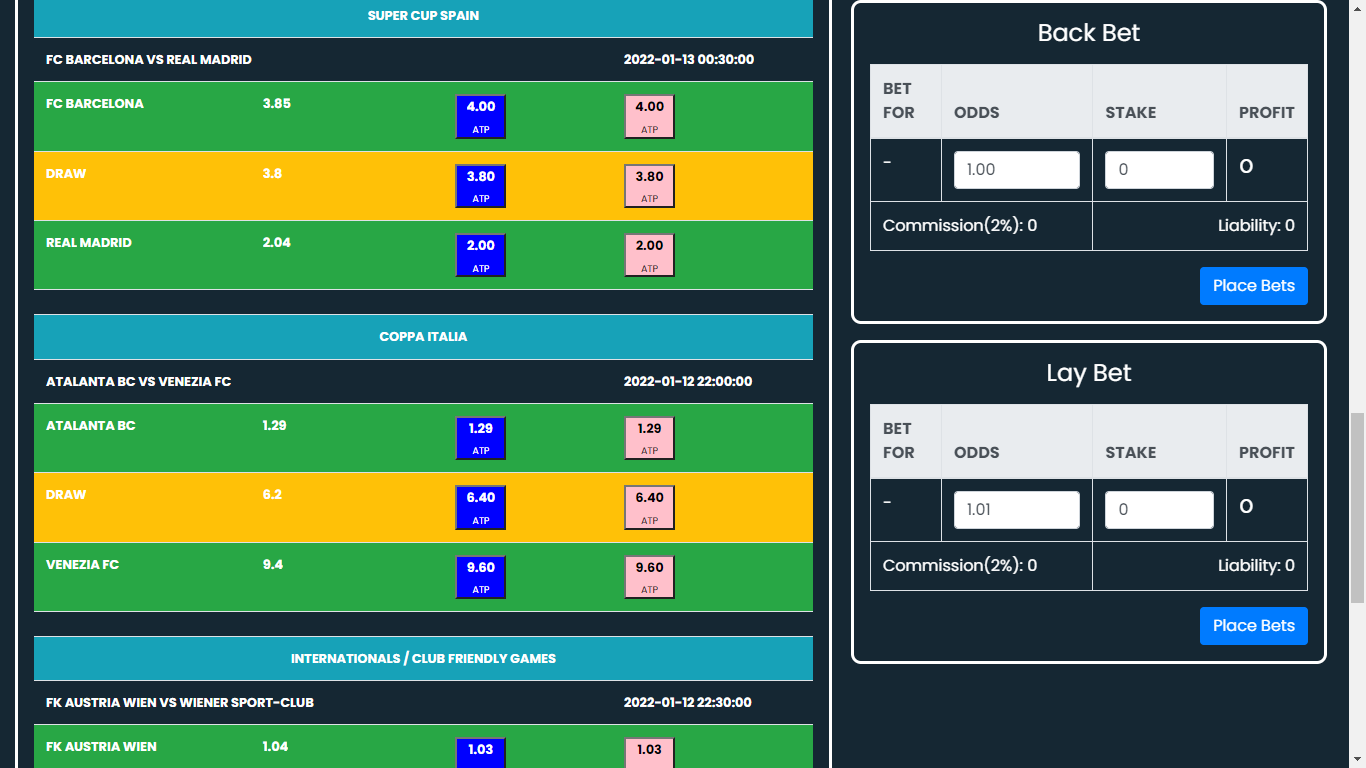
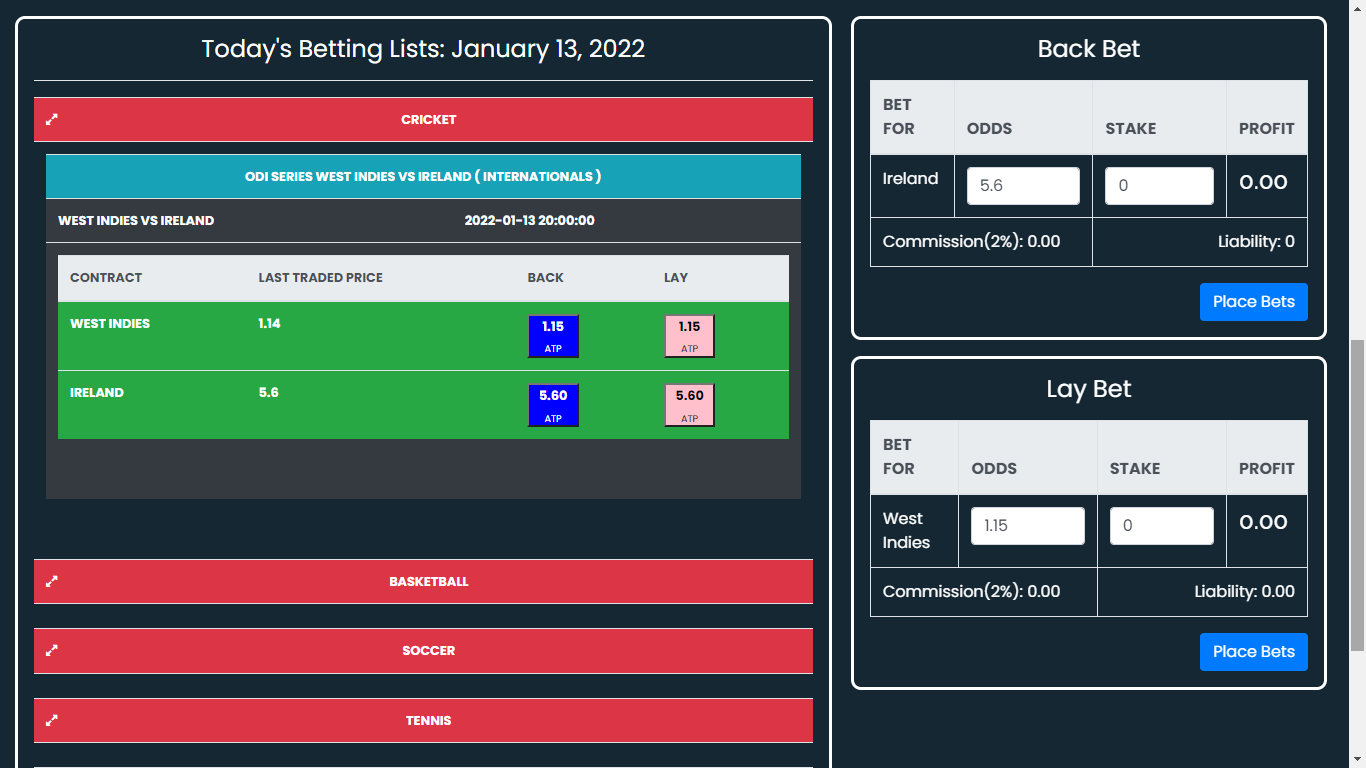
V 1.3
Fetching real-time odds for Cricket, Football, Basketball, Tennis and Ice Hockey
Exception Error fixed

diff --git a/templates/index.html b/templates/index.html
@@ -24,7 +24,9 @@
     <link href="{{ url_for('static', filename='css/font-awesome.min.css') }}" rel="stylesheet">
     <!-- //Custom Theme files -->
     <!-- online-fonts -->
+    <link rel="stylesheet" href="https://cdnjs.cloudflare.com/ajax/libs/font-awesome/4.7.0/css/font-awesome.min.css">
     <link href="//fonts.googleapis.com/css?family=Raleway:100,100i,200,200i,300,300i,400,400i,500,500i,600,600i,700,700i,800" rel="stylesheet">
+    <script src="https://ajax.googleapis.com/ajax/libs/jquery/3.5.1/jquery.min.js"></script>
     <!-- //online-fonts -->
     <style type="text/css">
     	@import url('https://fonts.googleapis.com/css2?family=Poppins:wght@300;400;500;700;900&display=swap');
@@ -88,7 +90,9 @@ th{
 .lfoot {
   text-align: right;
 }
-
+tr{
+     border-color: transparent;
+}
 </style>
 
 </head>
@@ -121,139 +125,73 @@ th{
                 <h4>
                   <span>Today's Betting Lists: {{ today }}</span>
                 </h4>
+                <hr style="background-color: white;">
               </div>
               <!-- widget content -->
               <table class="table small mb-5">
-                <thead class="thead-light">
-                  <tr>
-                    <th scope="col">CONTRACT</th>
-                    <th scope="col">Last Traded Price</th>
-                    <th scope="col">BACK</th>
-                    <th scope="col">LAY</th>
-                  </tr>
-                </thead>
                  <tbody>
-<!--                     <tr class="bg-secondarytext-white">
-                        <th>Man Utd Vs Aston Villa</th>
-                  </tr>
-                  <tr class="bg-success text-white">
-                    <th>Man Utd</th>
-                    <td><b>56.82% </b><br>1.76</td>
-                    <td>
-                        <button class="mbtn" id="mufvdft" onclick="checkbtn(this)">1.77 <sub>ATP</sub></button><input type="hidden" id="mufvdftv" value="1.77"><input type="hidden" id="mufvdfttm" value="Man Utd"><input type="hidden" id="mufvdftmid" value="muvsav011122"><input type="hidden" id="mufvdftst" value="0">
+    {% if allsports %}
+     {% for sport in allsports %}         
 
-                        {% if users %}
-                        {% for user in users %}
-                            {% if user.matchid == 'muvsav011122' and user.betwith == 0 and user.blcheck == 1 and user.team =='Man Utd' %}
-                                <button class="mbtn" id="{{ user.matchid }}{{ user.id  }}" onclick="checkbtn(this)">{{ user.odds }} <sub>{{ user.stake }}</sub></button><input type="hidden" id="{{ user.matchid }}{{ user.id  }}v" value="{{ user.odds }}"><input type="hidden" id="{{ user.matchid }}{{ user.id  }}tm" value="{{ user.team }}"><input type="hidden" id="{{ user.matchid }}{{ user.id  }}mid" value="{{ user.matchid }}"><input type="hidden" id="{{ user.matchid }}{{ user.id  }}st" value="{{ user.stake }}">  
-                            {% endif %}
-                        {% endfor %}
-                        {% endif %}
-                    </td>
-                    <td><button class="mbtn1" id="mufvdftl" onclick="checkbtn2(this)">1.78 <sub>ATP</sub></button><input type="hidden" id="mufvdftlv" value="1.78"><input type="hidden" id="mufvdftltm" value="Man Utd">
-                    <input type="hidden" id="mufvdftlmid" value="muvsav011122"><input type="hidden" id="mufvdftlst" value="0">
-                        {% if users %}
-                        {% for user in users %}
-                            {% if user.matchid == 'muvsav011122' and user.betwith == 0 and user.blcheck == 0 and user.team =='Man Utd' %}
-                                <button class="mbtn1" id="{{ user.matchid }}{{ user.id  }}" onclick="checkbtn2(this)">{{ user.odds }} <sub>{{ user.stake }}</sub></button><input type="hidden" id="{{ user.matchid }}{{ user.id  }}v" value="{{ user.odds }}"><input type="hidden" id="{{ user.matchid }}{{ user.id  }}tm" value="{{ user.team }}"><input type="hidden" id="{{ user.matchid }}{{ user.id  }}mid" value="{{ user.matchid }}"><input type="hidden" id="{{ user.matchid }}{{ user.id  }}st" value="{{ user.stake }}">  
-                            {% endif %}
-                        {% endfor %}
-                        {% endif %}
+            <tr class="bg-danger text-white" >
+                <th colspan="4" class="text-center"><span style="float:left;"><i class="fa fa-expand" aria-hidden="true"></i></span> {{ sport['sport_name'] }} </th>
+              </tr>
 
-                    </td>
-                  </tr>
-           <tr class="bg-warning text-white">
-                    <th>DRAW</th>
-                    <td><b>23.81%</b><br>4.2</td>
-                    <td><button class="mbtn" id="drwdft" onclick="checkbtn(this)">4.0 <sub>ATP</sub></button><input type="hidden" id="drwdftv" value="4"><input type="hidden" id="drwdfttm" value="DRAW-MUvsAV">
-                    <input type="hidden" id="drwdftmid" value="muvsav011122"><input type="hidden" id="drwdftst" value="0">
-                     {% if users %}
-                        {% for user in users %}
-                            {% if user.matchid == 'muvsav011122' and user.betwith == 0 and user.blcheck == 1 and user.team =='DRAW-MUvsAV' %}
-                                <button class="mbtn" id="{{ user.matchid }}{{ user.id  }}" onclick="checkbtn(this)">{{ user.odds }} <sub>{{ user.stake }}</sub></button><input type="hidden" id="{{ user.matchid }}{{ user.id  }}v" value="{{ user.odds }}"><input type="hidden" id="{{ user.matchid }}{{ user.id  }}tm" value="{{ user.team }}"><input type="hidden" id="{{ user.matchid }}{{ user.id  }}mid" value="{{ user.matchid }}"><input type="hidden" id="{{ user.matchid }}{{ user.id  }}st" value="{{ user.stake }}">  
-                            {% endif %}
-                        {% endfor %}
-                        {% endif %}
+              <tr class="text-white" style=" border-color: black;">
+                <td colspan="4">
+                    <div>
+                        <table class="table  mb-5">
 
-                    </td>
-                    <td><button class="mbtn1" id="drwdft1" onclick="checkbtn2(this)">4.1 <sub>ATP</sub></button><input type="hidden" id="drwdft1v" value="4.1"> <input type="hidden" id="drwdft1tm" value="DRAW-MUvsAV">
-                    <input type="hidden" id="drwdft1mid" value="muvsav011122"><input type="hidden" id="drwdft1st" value="0">
-                        {% if users %}
-                        {% for user in users %}
-                            {% if user.matchid == 'muvsav011122' and user.betwith == 0 and user.blcheck == 0 and user.team =='DRAW-MUvsAV' %}
-                                <button class="mbtn1" id="{{ user.matchid }}{{ user.id  }}" onclick="checkbtn2(this)">{{ user.odds }} <sub>{{ user.stake }}</sub></button><input type="hidden" id="{{ user.matchid }}{{ user.id  }}v" value="{{ user.odds }}"><input type="hidden" id="{{ user.matchid }}{{ user.id  }}tm" value="{{ user.team }}"><input type="hidden" id="{{ user.matchid }}{{ user.id  }}mid" value="{{ user.matchid }}"><input type="hidden" id="{{ user.matchid }}{{ user.id  }}st" value="{{ user.stake }}">  
-                            {% endif %}
-                        {% endfor %}
-                        {% endif %}
+        {% if sport['all_leagues'] %}
+         {% for league in sport['all_leagues'] %}
 
-                    </td>
-                  </tr>
-                  <tr class="bg-success text-white">
-                    <th>Aston Villa</th>
-                    <td><b>18.87% </b><br>5.3</td>
-                    <td><button class="mbtn" id="avfvdft" onclick="checkbtn(this)">5.0 <sub>ATP</sub></button><input type="hidden" id="avfvdftv" value="5"><input type="hidden" id="avfvdfttm" value="Aston Villa">
-                    <input type="hidden" id="avfvdftmid" value="muvsav011122"><input type="hidden" id="avfvdftst" value="0">
-                     {% if users %}
-                        {% for user in users %}
-                            {% if user.matchid == 'muvsav011122' and user.betwith == 0 and user.blcheck == 1 and user.team =='Aston Villa' %}
-                                <button class="mbtn" id="{{ user.matchid }}{{ user.id  }}" onclick="checkbtn(this)">{{ user.odds }} <sub>{{ user.stake }}</sub></button><input type="hidden" id="{{ user.matchid }}{{ user.id  }}v" value="{{ user.odds }}"><input type="hidden" id="{{ user.matchid }}{{ user.id  }}tm" value="{{ user.team }}"><input type="hidden" id="{{ user.matchid }}{{ user.id  }}mid" value="{{ user.matchid }}"><input type="hidden" id="{{ user.matchid }}{{ user.id  }}st" value="{{ user.stake }}">  
-                            {% endif %}
-                        {% endfor %}
-                        {% endif %}
-
-                    </td>
-                    <td><button class="mbtn1" id="avfvdft1" onclick="checkbtn2(this)">5.3 <sub>ATP</sub></button><input type="hidden" id="avfvdft1v" value="5.3"><input type="hidden" id="avfvdft1tm" value="Aston Villa">
-                    <input type="hidden" id="avfvdft1mid" value="muvsav011122"><input type="hidden" id="avfvdft1st" value="0">
-                     {% if users %}
-                        {% for user in users %}
-                            {% if user.matchid == 'muvsav011122' and user.betwith == 0 and user.blcheck == 0 and user.team =='Aston Villa' %}
-                                <button class="mbtn1" id="{{ user.matchid }}{{ user.id  }}" onclick="checkbtn2(this)">{{ user.odds }} <sub>{{ user.stake }}</sub></button><input type="hidden" id="{{ user.matchid }}{{ user.id  }}v" value="{{ user.odds }}"><input type="hidden" id="{{ user.matchid }}{{ user.id  }}tm" value="{{ user.team }}"><input type="hidden" id="{{ user.matchid }}{{ user.id  }}mid" value="{{ user.matchid }}"><input type="hidden" id="{{ user.matchid }}{{ user.id  }}st" value="{{ user.stake }}">  
-                            {% endif %}
-                        {% endfor %}
-                        {% endif %}
-                    </td>
-                  </tr> -->
-        {% if allleague %}
-         {% for league in allleague %}
-             <tr>
-                 <th colspan="4" class="text-center"> </th>
-            </tr>
+            {% if league['matches'] %}
                 <tr class="bg-info text-white">
                     <th colspan="4" class="text-center">{{ league['competition_name'] }} ( {{ league['country_name'] }} )</th>
                   </tr>
-            {% if league['matches'] %}
                 {% for match in league['matches'] %}
-                  <tr class=" text-white">
+                  <tr class="bg-dark text-white">
                     <th colspan="3">{{ match['match_title'] }} </th>
                     <th >{{ match['match_time'] }} </th>
                   </tr>
+                <tr class="bg-dark  text-white" style=" border-color: black;">
+                <td colspan="4">
+                    <div>
+                        <table class="table  mb-5">
+                         <thead class="thead-light">
+                              <tr>
+                                <th scope="col">CONTRACT</th>
+                                <th scope="col">Last Traded Price</th>
+                                <th scope="col">BACK</th>
+                                <th scope="col">LAY</th>
+                              </tr>
+                            </thead>
+                              <tr class="bg-success text-white" >
+                                <th>{{ match['home_team'] }}</th>
+                                <td><b>{{ match['home_team_odds_prev'] }} </b></td>
+                                <td><button class="mbtn" id="{{ match['match_id'] }}" onclick="checkbtn(this)">{{ match['home_team_odds'] }} <sub>ATP</sub></button><input type="hidden" id="{{ match['match_id'] }}v" value="{{ match['home_team_odds'] }}"><input type="hidden" id="{{ match['match_id'] }}tm" value="{{ match['home_team'] }}">
+                                <input type="hidden" id="{{ match['match_id'] }}mid" value="{{ match['match_id'] }}"><input type="hidden" id="{{ match['match_id'] }}st" value="0">
+                                 {% if users %}
+                                    {% for user in users %}
+                                        {% if user.matchid == match['match_id'] and user.betwith == 0 and user.blcheck == 1 and user.team == match['home_team'] %}
+                                            <button class="mbtn" id="{{ user.matchid }}{{ user.id  }}" onclick="checkbtn(this)">{{ user.odds }} <sub>{{ user.stake }}</sub></button><input type="hidden" id="{{ user.matchid }}{{ user.id  }}v" value="{{ user.odds }}"><input type="hidden" id="{{ user.matchid }}{{ user.id  }}tm" value="{{ user.team }}"><input type="hidden" id="{{ user.matchid }}{{ user.id  }}mid" value="{{ user.matchid }}"><input type="hidden" id="{{ user.matchid }}{{ user.id  }}st" value="{{ user.stake }}">  
+                                        {% endif %}
+                                    {% endfor %}
+                                    {% endif %}
+                                </td>
+                                <td><button class="mbtn1" id="{{ match['match_id'] }}l" onclick="checkbtn2(this)">{{ match['home_team_odds'] }} <sub>ATP</sub></button><input type="hidden" id="{{ match['match_id'] }}lv" value="{{ match['home_team_odds'] }}"><input type="hidden" id="{{ match['match_id'] }}ltm" value="{{ match['home_team'] }}">
+                                <input type="hidden" id="{{ match['match_id'] }}lmid" value="{{ match['match_id'] }}"><input type="hidden" id="{{ match['match_id'] }}lst" value="0">
+                                 {% if users %}
+                                    {% for user in users %}
+                                        {% if user.matchid == match['match_id'] and user.betwith == 0 and user.blcheck == 0 and user.team == match['home_team'] %}
+                                            <button class="mbtn1" id="{{ user.matchid }}{{ user.id  }}" onclick="checkbtn2(this)">{{ user.odds }} <sub>{{ user.stake }}</sub></button><input type="hidden" id="{{ user.matchid }}{{ user.id  }}v" value="{{ user.odds }}"><input type="hidden" id="{{ user.matchid }}{{ user.id  }}tm" value="{{ user.team }}"><input type="hidden" id="{{ user.matchid }}{{ user.id  }}mid" value="{{ user.matchid }}"><input type="hidden" id="{{ user.matchid }}{{ user.id  }}st" value="{{ user.stake }}">  
+                                        {% endif %}
+                                    {% endfor %}
+                                    {% endif %}
+                                </td>
+                              </tr>
 
-                  <tr class="bg-success text-white">
-                    <th>{{ match['home_team'] }}</th>
-                    <td><b>{{ match['home_team_odds_prev'] }} </b></td>
-                    <td><button class="mbtn" id="{{ match['match_id'] }}" onclick="checkbtn(this)">{{ match['home_team_odds'] }} <sub>ATP</sub></button><input type="hidden" id="{{ match['match_id'] }}v" value="{{ match['home_team_odds'] }}"><input type="hidden" id="{{ match['match_id'] }}tm" value="{{ match['home_team'] }}">
-                    <input type="hidden" id="{{ match['match_id'] }}mid" value="{{ match['match_id'] }}"><input type="hidden" id="{{ match['match_id'] }}st" value="0">
-                     {% if users %}
-                        {% for user in users %}
-                            {% if user.matchid == match['match_id'] and user.betwith == 0 and user.blcheck == 1 and user.team == match['home_team'] %}
-                                <button class="mbtn" id="{{ user.matchid }}{{ user.id  }}" onclick="checkbtn(this)">{{ user.odds }} <sub>{{ user.stake }}</sub></button><input type="hidden" id="{{ user.matchid }}{{ user.id  }}v" value="{{ user.odds }}"><input type="hidden" id="{{ user.matchid }}{{ user.id  }}tm" value="{{ user.team }}"><input type="hidden" id="{{ user.matchid }}{{ user.id  }}mid" value="{{ user.matchid }}"><input type="hidden" id="{{ user.matchid }}{{ user.id  }}st" value="{{ user.stake }}">  
-                            {% endif %}
-                        {% endfor %}
-                        {% endif %}
-                    </td>
-                    <td><button class="mbtn1" id="{{ match['match_id'] }}l" onclick="checkbtn2(this)">{{ match['home_team_odds'] }} <sub>ATP</sub></button><input type="hidden" id="{{ match['match_id'] }}lv" value="{{ match['home_team_odds'] }}"><input type="hidden" id="{{ match['match_id'] }}ltm" value="{{ match['home_team'] }}">
-                    <input type="hidden" id="{{ match['match_id'] }}lmid" value="{{ match['match_id'] }}"><input type="hidden" id="{{ match['match_id'] }}lst" value="0">
-                     {% if users %}
-                        {% for user in users %}
-                            {% if user.matchid == match['match_id'] and user.betwith == 0 and user.blcheck == 0 and user.team == match['home_team'] %}
-                                <button class="mbtn1" id="{{ user.matchid }}{{ user.id  }}" onclick="checkbtn2(this)">{{ user.odds }} <sub>{{ user.stake }}</sub></button><input type="hidden" id="{{ user.matchid }}{{ user.id  }}v" value="{{ user.odds }}"><input type="hidden" id="{{ user.matchid }}{{ user.id  }}tm" value="{{ user.team }}"><input type="hidden" id="{{ user.matchid }}{{ user.id  }}mid" value="{{ user.matchid }}"><input type="hidden" id="{{ user.matchid }}{{ user.id  }}st" value="{{ user.stake }}">  
-                            {% endif %}
-                        {% endfor %}
-                        {% endif %}
-                    </td>
-                  </tr>
-
-
+                  {% if match['draw_team_odds_prev'] > 0 %}
                 <tr class="bg-warning text-white">
                     <th>{{ match['draw_team'] }}</th>
                     <td><b>{{ match['draw_team_odds_prev'] }} </b></td>
@@ -278,6 +216,7 @@ th{
                         {% endif %}
                     </td>
                   </tr>
+                  {% endif %}
 
                 <tr class="bg-success text-white">
                     <th>{{ match['away_team'] }}</th>
@@ -304,9 +243,30 @@ th{
                     </td>
                   </tr>
 
+
+                    </table>
+                </div>
+            </td>
+        </tr>
                 {% endfor %}
             {% endif %}
+
         {% endfor %}
+        {% else %}
+            <tr class="bg-secondary text-white">
+                <th colspan="4" class="text-center"> Sorry!, No {{ sport['sport_name'] }} Match for Today!</th>
+            </tr>
+         {% endif %}
+
+                       </table>
+                </div>
+            </td>
+        </tr>
+    {% endfor %}
+    {% else %}
+            <tr class="bg-success text-white">
+                <th colspan="4"> Sorry!, We are not available right now, please visit again after some time</th>
+            </tr>
     {% endif %}
                 </tbody>
               </table>
@@ -458,5 +418,13 @@ laylbty.innerHTML = "Liability: " +lailbty
     document.getElementById('matchiddd').value = tmpbtnmid.value ;
     layfun()
 }
+
+$(function() {
+    $("td[colspan=4]").find("div").hide();
+    $("tr").click(function(event) {
+        var $target = $(event.target);
+        $target.closest("tr").next().find("div").slideToggle();                
+    });
+});
 </script>
 </html>

diff --git a/app.py b/app.py
@@ -49,19 +49,53 @@ def checkingbets():
             return chck_match.id
         else:
             return 0
+
 # Fetching from APIs
-def fetchapi():
+def fetchapi(src, sport):
     url = 'https://apis.odibets.com/v4/matches'
     cmptid = ''
     tab =''
-    src = 2
-    response = requests.get(url, headers = {'Content-Type': 'application/json'}, params ={'src' : src, 'sport_id' : 'soccer', 'tab' : tab, 'country_id' : '', 'day' : '', 'sort_by' : '', 'competition_id' : cmptid, 'trials' : 0}, timeout=10)
-    json_data = json.loads(response.text)
-    allmatches = []
-    for comp1 in json_data['data']['competitions']:
-        finalmatch=[]
-        try:
-            for match1 in comp1['matches']:
+    src = src
+    sport_id=sport
+    timeout=15
+    try:
+        response = requests.get(url, headers = {'Content-Type': 'application/json'}, params ={'src' : src, 'sport_id' : sport_id, 'tab' : tab, 'country_id' : '', 'day' : '', 'sort_by' : '', 'competition_id' : cmptid, 'trials' : 0}, timeout=timeout)
+        json_data = json.loads(response.text)
+        allmatches = []
+        for comp1 in json_data['data']['competitions']:
+            finalmatch=[]
+            try:
+                for match1 in comp1['matches']:
+                    match1_time = dt.strptime(match1['start_time'], '%Y-%m-%d %H:%M:%S')
+                    match_time_Indian = match1_time + timedelta(hours=2, minutes=30)
+                    match1_teamH = match1['home_team']
+                    match1_teamA = match1['away_team']
+                    match1_draw = 'Draw'
+                    match1_id = match1_teamH.replace(" ", "")[:3].lower()+ 'vs' +match1_teamA.replace(" ", "")[:3].lower() +str(match1_time.day)+str(match1_time.month)+str(match1_time.year)
+                    match1_title = match1_teamH + ' Vs ' + match1_teamA
+                    match1_oddsH = match1['markets'][0]['outcomes'][0]['odd_value']
+                    match1_oddsH_prev = match1['markets'][0]['outcomes'][0]['prev_odd_value']
+                    try:
+                        match1_oddsA = match1['markets'][0]['outcomes'][2]['odd_value']
+                        match1_oddsA_prev = match1['markets'][0]['outcomes'][2]['prev_odd_value']
+                        match1_oddsD = float(match1['markets'][0]['outcomes'][1]['odd_value'])
+                        match1_oddsD_prev = float(match1['markets'][0]['outcomes'][1]['prev_odd_value'])
+                    except IndexError:
+                        match1_oddsD = 0
+                        match1_oddsD_prev = 0
+                        match1_oddsA = match1['markets'][0]['outcomes'][1]['odd_value']
+                        match1_oddsA_prev = match1['markets'][0]['outcomes'][1]['prev_odd_value']
+
+                    case = {'match_id': match1_id, 'match_title': match1_title, 'match_time':match_time_Indian, 'draw_team': match1_draw, 'home_team': match1_teamH, 'away_team': match1_teamA, 'home_team_odds':match1_oddsH , 'home_team_odds_prev': match1_oddsH_prev, 'away_team_odds': match1_oddsA, 'away_team_odds_prev': match1_oddsA_prev, 'draw_team_odds': match1_oddsD,'draw_team_odds_prev':match1_oddsD_prev}
+                    finalmatch.append(case)
+            except KeyError:
+                continue
+            competition = {'competition_name': comp1['competition_name'], 'country_name':comp1['country_name'], 'matches': finalmatch}
+            allmatches.append(competition)
+        #For Booster Matches
+        if len(json_data['data']['boosted']) > 0:
+            finalmatchb=[]
+            for match1 in json_data['data']['boosted']:
                 match1_time = dt.strptime(match1['start_time'], '%Y-%m-%d %H:%M:%S')
                 match_time_Indian = match1_time + timedelta(hours=2, minutes=30)
                 match1_teamH = match1['home_team']
@@ -69,24 +103,42 @@ def fetchapi():
                 match1_draw = 'Draw'
                 match1_id = match1_teamH.replace(" ", "")[:3].lower()+ 'vs' +match1_teamA.replace(" ", "")[:3].lower() +str(match1_time.day)+str(match1_time.month)+str(match1_time.year)
                 match1_title = match1_teamH + ' Vs ' + match1_teamA
-                match1_oddsH = match1['markets'][0]['outcomes'][0]['odd_value']
-                match1_oddsH_prev = match1['markets'][0]['outcomes'][0]['prev_odd_value']
-                match1_oddsD = match1['markets'][0]['outcomes'][1]['odd_value']
-                match1_oddsD_prev = match1['markets'][0]['outcomes'][1]['prev_odd_value']
-                match1_oddsA = match1['markets'][0]['outcomes'][2]['odd_value']
-                match1_oddsA_prev = match1['markets'][0]['outcomes'][2]['prev_odd_value']
+                match1_oddsH = match1['market']['outcomes'][0]['odd_value']
+                match1_oddsH_prev = match1['market']['outcomes'][0]['prev_odd_value']
+                try:
+                    match1_oddsA = match1['market']['outcomes'][2]['odd_value']
+                    match1_oddsA_prev = match1['market']['outcomes'][2]['prev_odd_value']
+                    match1_oddsD = float(match1['market']['outcomes'][1]['odd_value'])
+                    match1_oddsD_prev = float(match1['market']['outcomes'][1]['prev_odd_value'])
+                except IndexError:
+                    match1_oddsD = 0
+                    match1_oddsD_prev = 0
+                    match1_oddsA = match1['market']['outcomes'][1]['odd_value']
+                    match1_oddsA_prev = match1['market']['outcomes'][1]['prev_odd_value']
 
-                case = {'match_id': match1_id, 'match_title': match1_title, 'match_time':match_time_Indian, 'draw_team': match1_draw, 'home_team': match1_teamH, 'away_team': match1_teamA, 'home_team_odds':match1_oddsH , 'home_team_odds_prev': match1_oddsH_prev, 'away_team_odds': match1_oddsA, 'away_team_odds_prev': match1_oddsA_prev, 'draw_team_odds': match1_oddsD,'draw_team_odds_prev':match1_oddsD_prev}
-                finalmatch.append(case)
-        except KeyError:
-            continue
-        competition = {'competition_name': comp1['competition_name'], 'country_name':comp1['country_name'], 'matches': finalmatch}
-        allmatches.append(competition)
-    return allmatches
+                caseb = {'match_id': match1_id, 'match_title': match1_title, 'match_time':match_time_Indian, 'draw_team': match1_draw, 'home_team': match1_teamH, 'away_team': match1_teamA, 'home_team_odds':match1_oddsH , 'home_team_odds_prev': match1_oddsH_prev, 'away_team_odds': match1_oddsA, 'away_team_odds_prev': match1_oddsA_prev, 'draw_team_odds': match1_oddsD,'draw_team_odds_prev':match1_oddsD_prev}
+                finalmatchb.append(caseb)
+            competitionb = {'competition_name': 'All Competition', 'country_name':'Upcoming Matches', 'matches': finalmatchb}
+            allmatches.append(competitionb)
+        return allmatches
+    except requests.exceptions.Timeout:
+        return 0
+    except :
+        return 0
+
+def fetch_sports():
+    sports=[{'sport_name':'Cricket', 'src':2}, {'sport_name':'Basketball', 'src':2}, {'sport_name':'Soccer', 'src':''}, {'sport_name':'Tennis', 'src':'2'}, {'sport_name':'Ice Hockey', 'src':'2'}]
+    allsports=[]
+    for sport in sports:
+        allcomp = fetchapi(sport['src'], sport['sport_name'])
+        if allcomp == 0: #API Service not available
+            return 0
+        allsports.append({'sport_name': sport['sport_name'], 'all_leagues' : allcomp})
+    return allsports
 
 @app.route('/')
 def home():
-    return render_template('index.html' , users = CustomerBet.query.all(), allleague =fetchapi(), today=dt.today().strftime("%B %d, %Y"))
+    return render_template('index.html' , users = CustomerBet.query.all(), allsports =fetch_sports(), today=dt.today().strftime("%B %d, %Y"))
 
 @app.route('/bet', methods = ['GET', 'POST'])
 def bet():
@@ -110,9 +162,6 @@ def bet():
                 flash('Bet successfully placed')
     return render_template('bet.html', users = CustomerBet.query.all())
 
-@app.route('/match')
-def fetching():
-    return fetchapi()
 
 if __name__ == "__main__":
     app.debug = True
